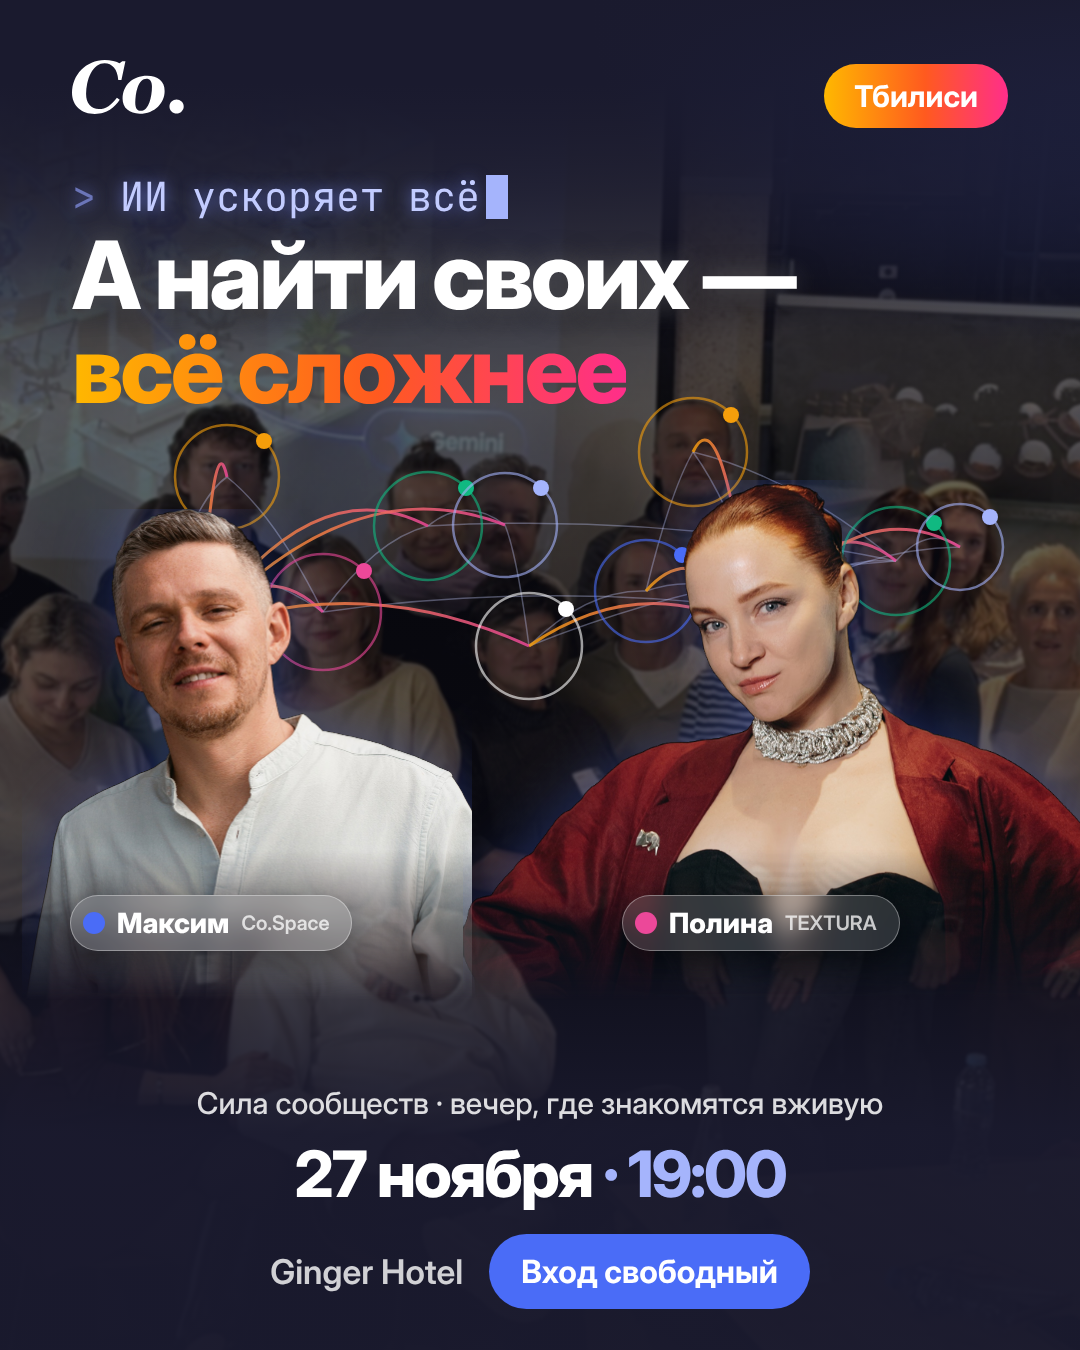
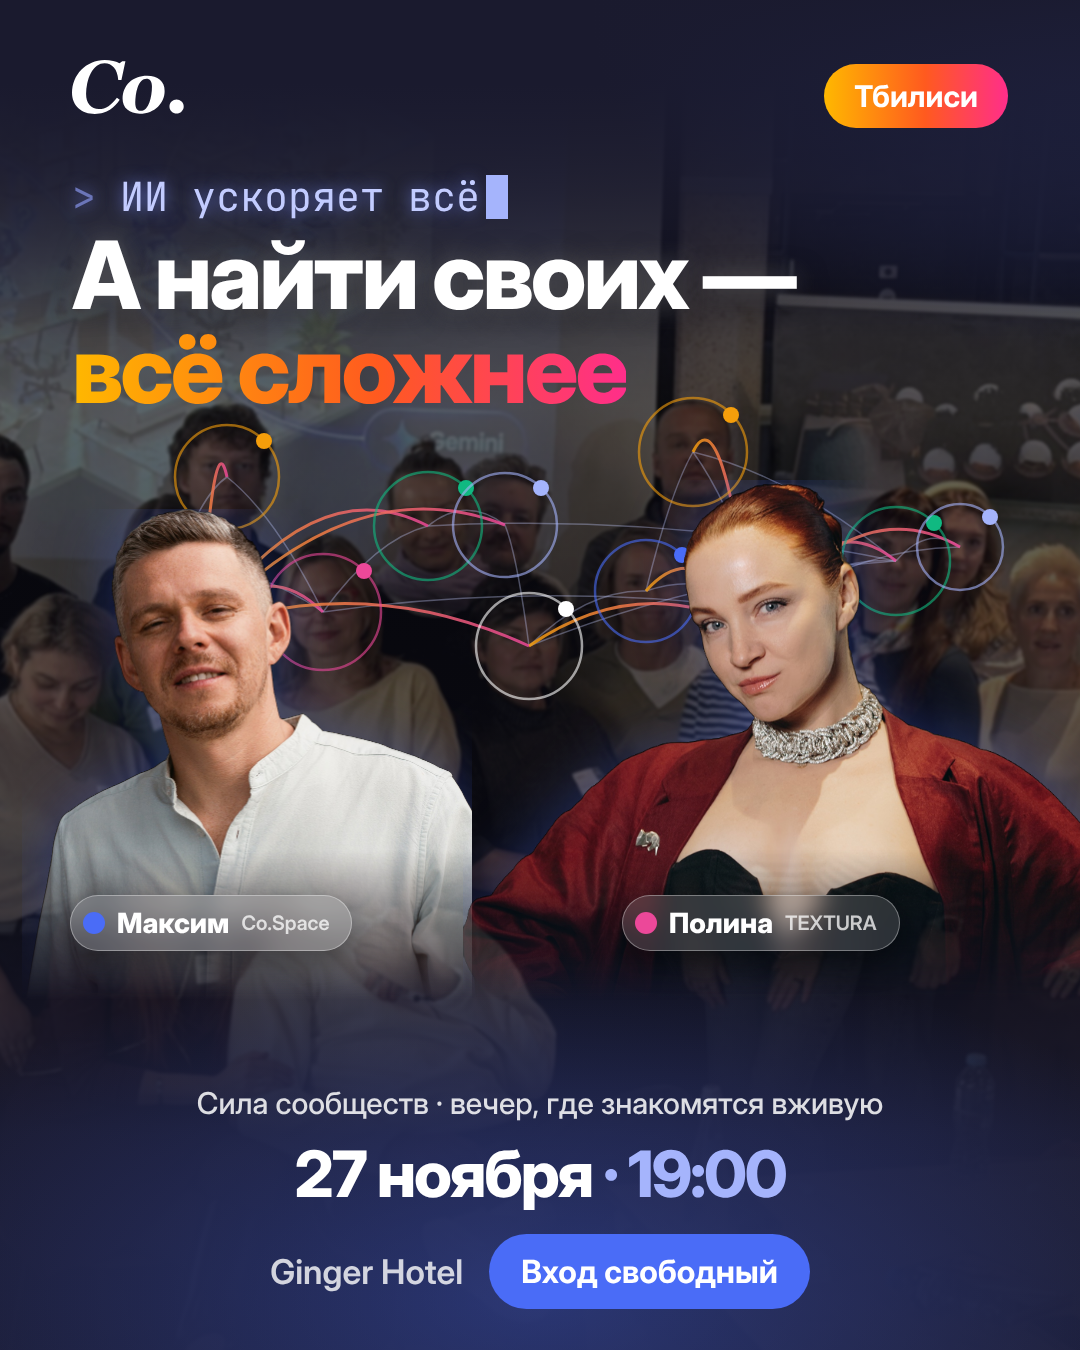
Сторис 9:16: сеть связей в верхней и нижней зоне
Claude-Session: https://claude.ai/code/session_01EUhV7vaX3V2s8FuVCAhgM5

Changed region(s): [[0.0306, 0.7778, 0.9472, 1.0]]

diff --git a/creatives/src/poster/poster3-9x16.html b/creatives/src/poster/poster3-9x16.html
@@ -7,6 +7,7 @@ body{font-family:'Inter Display','Inter',sans-serif;color:#fff;position:relative
  linear-gradient(180deg,rgba(26,26,46,.96) 0%,rgba(26,26,46,.72) 20%,rgba(26,26,46,.25) 30%,rgba(26,26,46,.35) 58%,rgba(26,26,46,.97) 78%),
  radial-gradient(700px 500px at 100% 0%,rgba(74,108,247,.45),transparent 70%)}
 svg.net{position:absolute;left:0;top:0}
+.glow{position:absolute;left:-200px;right:-200px;bottom:-300px;height:700px;background:radial-gradient(closest-side,rgba(74,108,247,.35),transparent)}
 .person{position:absolute;-webkit-mask-image:linear-gradient(180deg,#000 62%,transparent 92%)}
 .halo{position:absolute;border-radius:50%;border:3px solid;box-shadow:0 0 40px currentColor}
 .person img{height:100%;display:block;filter:drop-shadow(0 0 30px rgba(74,108,247,.35))}
@@ -29,6 +30,7 @@ h1 em{font-style:normal;text-shadow:none;background:linear-gradient(90deg,#FFB80
 .place{font-size:34px;color:rgba(255,255,255,.8);font-weight:600}
 .cta{background:#4A6CF7;border-radius:44px;padding:18px 32px;font-size:32px;font-weight:700}
 </style></head><body><img class="bg" src="group.src.jpg"><div class="shade"></div>
+<div class="glow"></div><svg class="net" width="1080" height="1920" viewBox="0 0 1080 1920"><line x1="946" y1="173" x2="945" y2="160" stroke="#C7CEFF" stroke-width="1.5" opacity=".28"/><line x1="946" y1="173" x2="994" y2="191" stroke="#C7CEFF" stroke-width="1.5" opacity=".28"/><line x1="945" y1="160" x2="946" y2="173" stroke="#C7CEFF" stroke-width="1.5" opacity=".28"/><line x1="945" y1="160" x2="994" y2="191" stroke="#C7CEFF" stroke-width="1.5" opacity=".28"/><line x1="408" y1="77" x2="342" y2="189" stroke="#C7CEFF" stroke-width="1.5" opacity=".28"/><line x1="408" y1="77" x2="515" y2="183" stroke="#C7CEFF" stroke-width="1.5" opacity=".28"/><line x1="994" y1="191" x2="946" y2="173" stroke="#C7CEFF" stroke-width="1.5" opacity=".28"/><line x1="994" y1="191" x2="945" y2="160" stroke="#C7CEFF" stroke-width="1.5" opacity=".28"/><line x1="212" y1="144" x2="205" y2="167" stroke="#C7CEFF" stroke-width="1.5" opacity=".28"/><line x1="212" y1="144" x2="105" y2="182" stroke="#C7CEFF" stroke-width="1.5" opacity=".28"/><line x1="205" y1="167" x2="212" y2="144" stroke="#C7CEFF" stroke-width="1.5" opacity=".28"/><line x1="205" y1="167" x2="105" y2="182" stroke="#C7CEFF" stroke-width="1.5" opacity=".28"/><line x1="105" y1="182" x2="205" y2="167" stroke="#C7CEFF" stroke-width="1.5" opacity=".28"/><line x1="105" y1="182" x2="212" y2="144" stroke="#C7CEFF" stroke-width="1.5" opacity=".28"/><line x1="342" y1="189" x2="408" y2="77" stroke="#C7CEFF" stroke-width="1.5" opacity=".28"/><line x1="342" y1="189" x2="212" y2="144" stroke="#C7CEFF" stroke-width="1.5" opacity=".28"/><line x1="149" y1="45" x2="212" y2="144" stroke="#C7CEFF" stroke-width="1.5" opacity=".28"/><line x1="149" y1="45" x2="205" y2="167" stroke="#C7CEFF" stroke-width="1.5" opacity=".28"/><line x1="515" y1="183" x2="408" y2="77" stroke="#C7CEFF" stroke-width="1.5" opacity=".28"/><line x1="515" y1="183" x2="342" y2="189" stroke="#C7CEFF" stroke-width="1.5" opacity=".28"/><line x1="688" y1="142" x2="515" y2="183" stroke="#C7CEFF" stroke-width="1.5" opacity=".28"/><line x1="688" y1="142" x2="945" y2="160" stroke="#C7CEFF" stroke-width="1.5" opacity=".28"/><line x1="498" y1="1887" x2="405" y2="1789" stroke="#C7CEFF" stroke-width="1.5" opacity=".28"/><line x1="498" y1="1887" x2="589" y2="1768" stroke="#C7CEFF" stroke-width="1.5" opacity=".28"/><line x1="29" y1="1603" x2="21" y2="1669" stroke="#C7CEFF" stroke-width="1.5" opacity=".28"/><line x1="29" y1="1603" x2="226" y2="1565" stroke="#C7CEFF" stroke-width="1.5" opacity=".28"/><line x1="589" y1="1768" x2="540" y2="1721" stroke="#C7CEFF" stroke-width="1.5" opacity=".28"/><line x1="589" y1="1768" x2="657" y2="1730" stroke="#C7CEFF" stroke-width="1.5" opacity=".28"/><line x1="540" y1="1721" x2="589" y2="1768" stroke="#C7CEFF" stroke-width="1.5" opacity=".28"/><line x1="540" y1="1721" x2="426" y2="1698" stroke="#C7CEFF" stroke-width="1.5" opacity=".28"/><line x1="611" y1="1575" x2="657" y2="1730" stroke="#C7CEFF" stroke-width="1.5" opacity=".28"/><line x1="611" y1="1575" x2="540" y2="1721" stroke="#C7CEFF" stroke-width="1.5" opacity=".28"/><line x1="241" y1="1765" x2="288" y2="1774" stroke="#C7CEFF" stroke-width="1.5" opacity=".28"/><line x1="241" y1="1765" x2="261" y2="1628" stroke="#C7CEFF" stroke-width="1.5" opacity=".28"/><line x1="811" y1="1594" x2="879" y2="1597" stroke="#C7CEFF" stroke-width="1.5" opacity=".28"/><line x1="811" y1="1594" x2="611" y2="1575" stroke="#C7CEFF" stroke-width="1.5" opacity=".28"/><line x1="21" y1="1669" x2="29" y2="1603" stroke="#C7CEFF" stroke-width="1.5" opacity=".28"/><line x1="21" y1="1669" x2="226" y2="1565" stroke="#C7CEFF" stroke-width="1.5" opacity=".28"/><line x1="982" y1="1752" x2="1017" y2="1650" stroke="#C7CEFF" stroke-width="1.5" opacity=".28"/><line x1="982" y1="1752" x2="879" y2="1597" stroke="#C7CEFF" stroke-width="1.5" opacity=".28"/><line x1="879" y1="1597" x2="811" y2="1594" stroke="#C7CEFF" stroke-width="1.5" opacity=".28"/><line x1="879" y1="1597" x2="1017" y2="1650" stroke="#C7CEFF" stroke-width="1.5" opacity=".28"/><line x1="426" y1="1698" x2="405" y2="1789" stroke="#C7CEFF" stroke-width="1.5" opacity=".28"/><line x1="426" y1="1698" x2="540" y2="1721" stroke="#C7CEFF" stroke-width="1.5" opacity=".28"/><line x1="657" y1="1730" x2="589" y2="1768" stroke="#C7CEFF" stroke-width="1.5" opacity=".28"/><line x1="657" y1="1730" x2="540" y2="1721" stroke="#C7CEFF" stroke-width="1.5" opacity=".28"/><line x1="261" y1="1628" x2="226" y2="1565" stroke="#C7CEFF" stroke-width="1.5" opacity=".28"/><line x1="261" y1="1628" x2="241" y2="1765" stroke="#C7CEFF" stroke-width="1.5" opacity=".28"/><line x1="226" y1="1565" x2="261" y2="1628" stroke="#C7CEFF" stroke-width="1.5" opacity=".28"/><line x1="226" y1="1565" x2="241" y2="1765" stroke="#C7CEFF" stroke-width="1.5" opacity=".28"/><line x1="1017" y1="1650" x2="982" y2="1752" stroke="#C7CEFF" stroke-width="1.5" opacity=".28"/><line x1="1017" y1="1650" x2="879" y2="1597" stroke="#C7CEFF" stroke-width="1.5" opacity=".28"/><line x1="405" y1="1789" x2="426" y2="1698" stroke="#C7CEFF" stroke-width="1.5" opacity=".28"/><line x1="405" y1="1789" x2="288" y2="1774" stroke="#C7CEFF" stroke-width="1.5" opacity=".28"/><line x1="288" y1="1774" x2="241" y2="1765" stroke="#C7CEFF" stroke-width="1.5" opacity=".28"/><line x1="288" y1="1774" x2="405" y2="1789" stroke="#C7CEFF" stroke-width="1.5" opacity=".28"/><circle cx="946" cy="173" r="40" fill="#10B981" opacity=".12"/><circle cx="946" cy="173" r="28" fill="none" stroke="#10B981" stroke-width="2" opacity=".5"/><circle cx="946" cy="173" r="18" fill="#10B981" opacity=".9"/><circle cx="945" cy="160" r="40" fill="#A5B4FC" opacity=".12"/><circle cx="945" cy="160" r="28" fill="none" stroke="#A5B4FC" stroke-width="2" opacity=".5"/><circle cx="945" cy="160" r="18" fill="#A5B4FC" opacity=".9"/><circle cx="408" cy="77" r="40" fill="#A5B4FC" opacity=".12"/><circle cx="408" cy="77" r="28" fill="none" stroke="#A5B4FC" stroke-width="2" opacity=".5"/><circle cx="408" cy="77" r="18" fill="#A5B4FC" opacity=".9"/><circle cx="994" cy="191" r="22" fill="#F59E0B" opacity=".12"/><circle cx="994" cy="191" r="20" fill="none" stroke="#F59E0B" stroke-width="2" opacity=".5"/><circle cx="994" cy="191" r="10" fill="#F59E0B" opacity=".9"/><circle cx="212" cy="144" r="6" fill="#F59E0B" opacity=".9"/><circle cx="205" cy="167" r="40" fill="#FFFFFF" opacity=".12"/><circle cx="205" cy="167" r="28" fill="none" stroke="#FFFFFF" stroke-width="2" opacity=".5"/><circle cx="205" cy="167" r="18" fill="#FFFFFF" opacity=".9"/><circle cx="105" cy="182" r="8" fill="#10B981" opacity=".9"/><circle cx="342" cy="189" r="4" fill="#A5B4FC" opacity=".9"/><circle cx="149" cy="45" r="4" fill="#F59E0B" opacity=".9"/><circle cx="515" cy="183" r="4" fill="#10B981" opacity=".9"/><circle cx="688" cy="142" r="22" fill="#F59E0B" opacity=".12"/><circle cx="688" cy="142" r="20" fill="none" stroke="#F59E0B" stroke-width="2" opacity=".5"/><circle cx="688" cy="142" r="10" fill="#F59E0B" opacity=".9"/><circle cx="498" cy="1887" r="6" fill="#10B981" opacity=".9"/><circle cx="29" cy="1603" r="8" fill="#FFFFFF" opacity=".9"/><circle cx="589" cy="1768" r="22" fill="#4A6CF7" opacity=".12"/><circle cx="589" cy="1768" r="20" fill="none" stroke="#4A6CF7" stroke-width="2" opacity=".5"/><circle cx="589" cy="1768" r="10" fill="#4A6CF7" opacity=".9"/><circle cx="540" cy="1721" r="40" fill="#F59E0B" opacity=".12"/><circle cx="540" cy="1721" r="28" fill="none" stroke="#F59E0B" stroke-width="2" opacity=".5"/><circle cx="540" cy="1721" r="18" fill="#F59E0B" opacity=".9"/><circle cx="611" cy="1575" r="4" fill="#A5B4FC" opacity=".9"/><circle cx="241" cy="1765" r="4" fill="#EC4899" opacity=".9"/><circle cx="811" cy="1594" r="4" fill="#FFFFFF" opacity=".9"/><circle cx="21" cy="1669" r="5" fill="#4A6CF7" opacity=".9"/><circle cx="982" cy="1752" r="31" fill="#10B981" opacity=".12"/><circle cx="982" cy="1752" r="24" fill="none" stroke="#10B981" stroke-width="2" opacity=".5"/><circle cx="982" cy="1752" r="14" fill="#10B981" opacity=".9"/><circle cx="879" cy="1597" r="22" fill="#FFFFFF" opacity=".12"/><circle cx="879" cy="1597" r="20" fill="none" stroke="#FFFFFF" stroke-width="2" opacity=".5"/><circle cx="879" cy="1597" r="10" fill="#FFFFFF" opacity=".9"/><circle cx="426" cy="1698" r="6" fill="#4A6CF7" opacity=".9"/><circle cx="657" cy="1730" r="4" fill="#10B981" opacity=".9"/><circle cx="261" cy="1628" r="5" fill="#FFFFFF" opacity=".9"/><circle cx="226" cy="1565" r="4" fill="#10B981" opacity=".9"/><circle cx="1017" cy="1650" r="31" fill="#A5B4FC" opacity=".12"/><circle cx="1017" cy="1650" r="24" fill="none" stroke="#A5B4FC" stroke-width="2" opacity=".5"/><circle cx="1017" cy="1650" r="14" fill="#A5B4FC" opacity=".9"/><circle cx="405" cy="1789" r="22" fill="#F59E0B" opacity=".12"/><circle cx="405" cy="1789" r="20" fill="none" stroke="#F59E0B" stroke-width="2" opacity=".5"/><circle cx="405" cy="1789" r="10" fill="#F59E0B" opacity=".9"/><circle cx="288" cy="1774" r="31" fill="#10B981" opacity=".12"/><circle cx="288" cy="1774" r="24" fill="none" stroke="#10B981" stroke-width="2" opacity=".5"/><circle cx="288" cy="1774" r="14" fill="#10B981" opacity=".9"/></svg>
 <svg class="net" width="1080" height="1920" viewBox="0 0 1080 1920"><defs><linearGradient id="gl" x1="0" x2="1"><stop offset="0" stop-color="#F59E0B"/><stop offset="1" stop-color="#EC4899"/></linearGradient></defs><path d="M166,816 Q194,737 222,718" stroke="#C7CEFF" stroke-width="1.5" fill="none" opacity=".35"/><path d="M926,806 Q960,769 993,792" stroke="#C7CEFF" stroke-width="1.5" fill="none" opacity=".35"/><path d="M222,718 Q272,759 323,860" stroke="#C7CEFF" stroke-width="1.5" fill="none" opacity=".35"/><path d="M433,769 Q474,738 514,768" stroke="#C7CEFF" stroke-width="1.5" fill="none" opacity=".35"/><path d="M663,838 Q726,818 788,857" stroke="#C7CEFF" stroke-width="1.5" fill="none" opacity=".35"/><path d="M788,857 Q890,794 993,792" stroke="#C7CEFF" stroke-width="1.5" fill="none" opacity=".35"/><path d="M323,860 Q378,784 433,769" stroke="#C7CEFF" stroke-width="1.5" fill="none" opacity=".35"/><path d="M663,838 Q688,735 712,692" stroke="#C7CEFF" stroke-width="1.5" fill="none" opacity=".35"/><path d="M166,816 Q244,808 323,860" stroke="#C7CEFF" stroke-width="1.5" fill="none" opacity=".35"/><path d="M514,768 Q526,802 539,896" stroke="#C7CEFF" stroke-width="1.5" fill="none" opacity=".35"/><path d="M788,857 Q857,802 926,806" stroke="#C7CEFF" stroke-width="1.5" fill="none" opacity=".35"/><path d="M539,896 Q601,837 663,838" stroke="#C7CEFF" stroke-width="1.5" fill="none" opacity=".35"/><path d="M433,769 Q680,758 926,806" stroke="#C7CEFF" stroke-width="1.5" fill="none" opacity=".35"/><path d="M712,692 Q819,719 926,806" stroke="#C7CEFF" stroke-width="1.5" fill="none" opacity=".35"/><path d="M539,896 Q732,821 926,806" stroke="#C7CEFF" stroke-width="1.5" fill="none" opacity=".35"/><path d="M712,692 Q750,744 788,857" stroke="#C7CEFF" stroke-width="1.5" fill="none" opacity=".35"/><path d="M323,860 Q556,828 788,857" stroke="#C7CEFF" stroke-width="1.5" fill="none" opacity=".35"/><path d="M755,870 Q772,797 788,857" stroke="url(#gl)" stroke-width="3" fill="none" opacity=".85"/><path d="M755,870 Q709,778 663,838" stroke="url(#gl)" stroke-width="3" fill="none" opacity=".85"/><path d="M755,870 Q840,746 926,806" stroke="url(#gl)" stroke-width="3" fill="none" opacity=".85"/><path d="M755,870 Q734,632 712,692" stroke="url(#gl)" stroke-width="3" fill="none" opacity=".85"/><path d="M755,870 Q647,810 539,896" stroke="url(#gl)" stroke-width="3" fill="none" opacity=".85"/><path d="M755,870 Q874,732 993,792" stroke="url(#gl)" stroke-width="3" fill="none" opacity=".85"/><path d="M205,870 Q186,756 166,816" stroke="url(#gl)" stroke-width="3" fill="none" opacity=".85"/><path d="M205,870 Q264,800 323,860" stroke="url(#gl)" stroke-width="3" fill="none" opacity=".85"/><path d="M205,870 Q214,658 222,718" stroke="url(#gl)" stroke-width="3" fill="none" opacity=".85"/><path d="M205,870 Q319,709 433,769" stroke="url(#gl)" stroke-width="3" fill="none" opacity=".85"/><path d="M205,870 Q360,708 514,768" stroke="url(#gl)" stroke-width="3" fill="none" opacity=".85"/><path d="M205,870 Q372,810 539,896" stroke="url(#gl)" stroke-width="3" fill="none" opacity=".85"/><circle cx="166" cy="816" r="55" fill="none" stroke="#4A6CF7" stroke-width="2.5" opacity=".6"/><circle cx="204" cy="778" r="8" fill="#4A6CF7"/><circle cx="222" cy="718" r="55" fill="none" stroke="#F59E0B" stroke-width="2.5" opacity=".6"/><circle cx="260" cy="680" r="8" fill="#F59E0B"/><circle cx="323" cy="860" r="61" fill="none" stroke="#EC4899" stroke-width="2.5" opacity=".6"/><circle cx="366" cy="817" r="8" fill="#EC4899"/><circle cx="433" cy="769" r="57" fill="none" stroke="#10B981" stroke-width="2.5" opacity=".6"/><circle cx="473" cy="729" r="8" fill="#10B981"/><circle cx="514" cy="768" r="55" fill="none" stroke="#A5B4FC" stroke-width="2.5" opacity=".6"/><circle cx="552" cy="730" r="8" fill="#A5B4FC"/><circle cx="539" cy="896" r="56" fill="none" stroke="#FFFFFF" stroke-width="2.5" opacity=".6"/><circle cx="578" cy="857" r="8" fill="#FFFFFF"/><circle cx="663" cy="838" r="54" fill="none" stroke="#4A6CF7" stroke-width="2.5" opacity=".6"/><circle cx="701" cy="800" r="8" fill="#4A6CF7"/><circle cx="712" cy="692" r="57" fill="none" stroke="#F59E0B" stroke-width="2.5" opacity=".6"/><circle cx="752" cy="652" r="8" fill="#F59E0B"/><circle cx="788" cy="857" r="57" fill="none" stroke="#EC4899" stroke-width="2.5" opacity=".6"/><circle cx="828" cy="817" r="8" fill="#EC4899"/><circle cx="926" cy="806" r="56" fill="none" stroke="#10B981" stroke-width="2.5" opacity=".6"/><circle cx="965" cy="767" r="8" fill="#10B981"/><circle cx="993" cy="792" r="45" fill="none" stroke="#A5B4FC" stroke-width="2.5" opacity=".6"/><circle cx="1024" cy="760" r="8" fill="#A5B4FC"/></svg>
 <div class="person" style="left:21px;top:745px;height:546px;-webkit-mask-image:linear-gradient(180deg,#000 63.2%,transparent 90.7%)"><img src="max_cut.png"></div><div class="person" style="left:456px;top:715px;height:910px;-webkit-mask-image:linear-gradient(180deg,#000 41.2%,transparent 57.7%)"><img src="polina_cut.png"></div>
 <div class="name" style="left:625px;top:1135px"><i style="background:#EC4899"></i>Полина <small>TEXTURA</small></div>

diff --git a/creatives/src/poster/poster3-4x5.html b/creatives/src/poster/poster3-4x5.html
@@ -7,6 +7,7 @@ body{font-family:'Inter Display','Inter',sans-serif;color:#fff;position:relative
  linear-gradient(180deg,rgba(26,26,46,.96) 0%,rgba(26,26,46,.72) 14%,rgba(26,26,46,.25) 30%,rgba(26,26,46,.35) 62%,rgba(26,26,46,.97) 84%),
  radial-gradient(700px 500px at 100% 0%,rgba(74,108,247,.45),transparent 70%)}
 svg.net{position:absolute;left:0;top:0}
+.glow{position:absolute;left:-200px;right:-200px;bottom:-300px;height:700px;background:radial-gradient(closest-side,rgba(74,108,247,.35),transparent)}
 .person{position:absolute;-webkit-mask-image:linear-gradient(180deg,#000 62%,transparent 92%)}
 .halo{position:absolute;border-radius:50%;border:3px solid;box-shadow:0 0 40px currentColor}
 .person img{height:100%;display:block;filter:drop-shadow(0 0 30px rgba(74,108,247,.35))}
@@ -29,6 +30,7 @@ h1 em{font-style:normal;text-shadow:none;background:linear-gradient(90deg,#FFB80
 .place{font-size:34px;color:rgba(255,255,255,.8);font-weight:600}
 .cta{background:#4A6CF7;border-radius:44px;padding:18px 32px;font-size:32px;font-weight:700}
 </style></head><body><img class="bg" src="group.src.jpg"><div class="shade"></div>
+<div class="glow"></div>
 <svg class="net" width="1080" height="1350" viewBox="0 0 1080 1350"><defs><linearGradient id="gl" x1="0" x2="1"><stop offset="0" stop-color="#F59E0B"/><stop offset="1" stop-color="#EC4899"/></linearGradient></defs><path d="M174,570 Q201,494 227,477" stroke="#C7CEFF" stroke-width="1.5" fill="none" opacity=".35"/><path d="M896,561 Q928,524 960,547" stroke="#C7CEFF" stroke-width="1.5" fill="none" opacity=".35"/><path d="M227,477 Q275,515 323,612" stroke="#C7CEFF" stroke-width="1.5" fill="none" opacity=".35"/><path d="M428,526 Q466,495 505,525" stroke="#C7CEFF" stroke-width="1.5" fill="none" opacity=".35"/><path d="M646,591 Q706,570 765,609" stroke="#C7CEFF" stroke-width="1.5" fill="none" opacity=".35"/><path d="M765,609 Q862,548 960,547" stroke="#C7CEFF" stroke-width="1.5" fill="none" opacity=".35"/><path d="M323,612 Q376,539 428,526" stroke="#C7CEFF" stroke-width="1.5" fill="none" opacity=".35"/><path d="M646,591 Q670,492 693,452" stroke="#C7CEFF" stroke-width="1.5" fill="none" opacity=".35"/><path d="M174,570 Q249,561 323,612" stroke="#C7CEFF" stroke-width="1.5" fill="none" opacity=".35"/><path d="M505,525 Q517,555 529,646" stroke="#C7CEFF" stroke-width="1.5" fill="none" opacity=".35"/><path d="M765,609 Q831,555 896,561" stroke="#C7CEFF" stroke-width="1.5" fill="none" opacity=".35"/><path d="M529,646 Q587,589 646,591" stroke="#C7CEFF" stroke-width="1.5" fill="none" opacity=".35"/><path d="M428,526 Q662,513 896,561" stroke="#C7CEFF" stroke-width="1.5" fill="none" opacity=".35"/><path d="M693,452 Q795,477 896,561" stroke="#C7CEFF" stroke-width="1.5" fill="none" opacity=".35"/><path d="M529,646 Q712,573 896,561" stroke="#C7CEFF" stroke-width="1.5" fill="none" opacity=".35"/><path d="M693,452 Q729,501 765,609" stroke="#C7CEFF" stroke-width="1.5" fill="none" opacity=".35"/><path d="M323,612 Q544,581 765,609" stroke="#C7CEFF" stroke-width="1.5" fill="none" opacity=".35"/><path d="M752,630 Q759,549 765,609" stroke="url(#gl)" stroke-width="3" fill="none" opacity=".85"/><path d="M752,630 Q699,531 646,591" stroke="url(#gl)" stroke-width="3" fill="none" opacity=".85"/><path d="M752,630 Q824,501 896,561" stroke="url(#gl)" stroke-width="3" fill="none" opacity=".85"/><path d="M752,630 Q722,392 693,452" stroke="url(#gl)" stroke-width="3" fill="none" opacity=".85"/><path d="M752,630 Q856,487 960,547" stroke="url(#gl)" stroke-width="3" fill="none" opacity=".85"/><path d="M752,630 Q640,570 529,646" stroke="url(#gl)" stroke-width="3" fill="none" opacity=".85"/><path d="M200,630 Q187,510 174,570" stroke="url(#gl)" stroke-width="3" fill="none" opacity=".85"/><path d="M200,630 Q262,552 323,612" stroke="url(#gl)" stroke-width="3" fill="none" opacity=".85"/><path d="M200,630 Q214,417 227,477" stroke="url(#gl)" stroke-width="3" fill="none" opacity=".85"/><path d="M200,630 Q314,466 428,526" stroke="url(#gl)" stroke-width="3" fill="none" opacity=".85"/><path d="M200,630 Q352,465 505,525" stroke="url(#gl)" stroke-width="3" fill="none" opacity=".85"/><path d="M200,630 Q364,570 529,646" stroke="url(#gl)" stroke-width="3" fill="none" opacity=".85"/><circle cx="174" cy="570" r="52" fill="none" stroke="#4A6CF7" stroke-width="2.5" opacity=".6"/><circle cx="211" cy="534" r="8" fill="#4A6CF7"/><circle cx="227" cy="477" r="52" fill="none" stroke="#F59E0B" stroke-width="2.5" opacity=".6"/><circle cx="264" cy="441" r="8" fill="#F59E0B"/><circle cx="323" cy="612" r="58" fill="none" stroke="#EC4899" stroke-width="2.5" opacity=".6"/><circle cx="364" cy="571" r="8" fill="#EC4899"/><circle cx="428" cy="526" r="54" fill="none" stroke="#10B981" stroke-width="2.5" opacity=".6"/><circle cx="466" cy="488" r="8" fill="#10B981"/><circle cx="505" cy="525" r="52" fill="none" stroke="#A5B4FC" stroke-width="2.5" opacity=".6"/><circle cx="541" cy="488" r="8" fill="#A5B4FC"/><circle cx="529" cy="646" r="53" fill="none" stroke="#FFFFFF" stroke-width="2.5" opacity=".6"/><circle cx="566" cy="609" r="8" fill="#FFFFFF"/><circle cx="646" cy="591" r="51" fill="none" stroke="#4A6CF7" stroke-width="2.5" opacity=".6"/><circle cx="682" cy="555" r="8" fill="#4A6CF7"/><circle cx="693" cy="452" r="54" fill="none" stroke="#F59E0B" stroke-width="2.5" opacity=".6"/><circle cx="731" cy="415" r="8" fill="#F59E0B"/><circle cx="765" cy="609" r="54" fill="none" stroke="#EC4899" stroke-width="2.5" opacity=".6"/><circle cx="803" cy="571" r="8" fill="#EC4899"/><circle cx="896" cy="561" r="54" fill="none" stroke="#10B981" stroke-width="2.5" opacity=".6"/><circle cx="934" cy="523" r="8" fill="#10B981"/><circle cx="960" cy="547" r="43" fill="none" stroke="#A5B4FC" stroke-width="2.5" opacity=".6"/><circle cx="990" cy="517" r="8" fill="#A5B4FC"/></svg>
 <div class="person" style="left:22px;top:509px;height:528px;-webkit-mask-image:linear-gradient(180deg,#000 64.6%,transparent 93.0%)"><img src="max_cut.png"></div><div class="person" style="left:463px;top:480px;height:880px;-webkit-mask-image:linear-gradient(180deg,#000 42.0%,transparent 59.1%)"><img src="polina_cut.png"></div>
 <div class="name" style="left:622px;top:895px"><i style="background:#EC4899"></i>Полина <small>TEXTURA</small></div>

diff --git a/creatives/src/poster/build_poster3.py b/creatives/src/poster/build_poster3.py
@@ -30,6 +30,7 @@ body{font-family:'Inter Display','Inter',sans-serif;color:#fff;position:relative
  linear-gradient(180deg,rgba(26,26,46,.96) 0%%,rgba(26,26,46,.72) %(g1)d%%,rgba(26,26,46,.25) %(g2)d%%,rgba(26,26,46,.35) %(g3)d%%,rgba(26,26,46,.97) %(g4)d%%),
  radial-gradient(700px 500px at 100%% 0%%,rgba(74,108,247,.45),transparent 70%%)}
 svg.net{position:absolute;left:0;top:0}
+.glow{position:absolute;left:-200px;right:-200px;bottom:-300px;height:700px;background:radial-gradient(closest-side,rgba(74,108,247,.35),transparent)}
 .person{position:absolute;-webkit-mask-image:linear-gradient(180deg,#000 62%%,transparent 92%%)}
 .halo{position:absolute;border-radius:50%%;border:3px solid;box-shadow:0 0 40px currentColor}
 .person img{height:100%%;display:block;filter:drop-shadow(0 0 30px rgba(74,108,247,.35))}
@@ -105,6 +106,28 @@ def net_svg(L):
     return f'<svg class="net" width="{W}" height="{H}" viewBox="0 0 {W} {H}">{defs}{"".join(out)}</svg>'
 
 
+def deco_svg(L, zones):
+    """Абстрактная сеть точек в пустых зонах (верх/низ сторис), продолжает связи фото."""
+    rnd = random.Random(11)
+    W, H = L["W"], L["H"]
+    pts = []
+    for y0, y1, n in zones:
+        for _ in range(n):
+            pts.append((rnd.randint(20, W - 20), rnd.randint(y0, y1), rnd.choice([4, 5, 6, 8, 10, 14, 18]), rnd.choice(COLORS)))
+    out = []
+    for i, a in enumerate(pts):
+        d = sorted(range(len(pts)), key=lambda j: (pts[j][0] - a[0]) ** 2 + (pts[j][1] - a[1]) ** 2)
+        for j in d[1:3]:
+            b = pts[j]
+            out.append(f'<line x1="{a[0]}" y1="{a[1]}" x2="{b[0]}" y2="{b[1]}" stroke="#C7CEFF" stroke-width="1.5" opacity=".28"/>')
+    for x, y, r, c in pts:
+        if r >= 10:
+            out.append(f'<circle cx="{x}" cy="{y}" r="{r * 2.2:.0f}" fill="{c}" opacity=".12"/>')
+            out.append(f'<circle cx="{x}" cy="{y}" r="{r + 10}" fill="none" stroke="{c}" stroke-width="2" opacity=".5"/>')
+        out.append(f'<circle cx="{x}" cy="{y}" r="{r}" fill="{c}" opacity=".9"/>')
+    return f'<svg class="net" width="{W}" height="{H}" viewBox="0 0 {W} {H}">{"".join(out)}</svg>'
+
+
 def person(img, pos):
     a = (pos["fy"] + 220 - pos["top"]) / pos["h"] * 100
     b = (pos["fy"] + 370 - pos["top"]) / pos["h"] * 100
@@ -120,6 +143,7 @@ for fmt, L in FMT.items():
                      mono=L["mono"], h1=L["h1"], h1s=L["h1s"], info=L["info"], g1=g[0], g2=g[1], g3=g[2], g4=g[3])
     ph, mh = heads(L)
     body = f"""<img class="bg" src="group.src.jpg"><div class="shade"></div>
+<div class="glow"></div>{deco_svg(L, [(30, 250, 11), (1560, 1890, 17)]) if fmt == "9x16" else ""}
 {net_svg(L)}
 {person('max_cut.png', L['mx'])}{person('polina_cut.png', L['pol'])}
 <div class="name" style="left:{L['polname'][0]}px;top:{L['polname'][1]}px"><i style="background:#EC4899"></i>Полина <small>TEXTURA</small></div>
